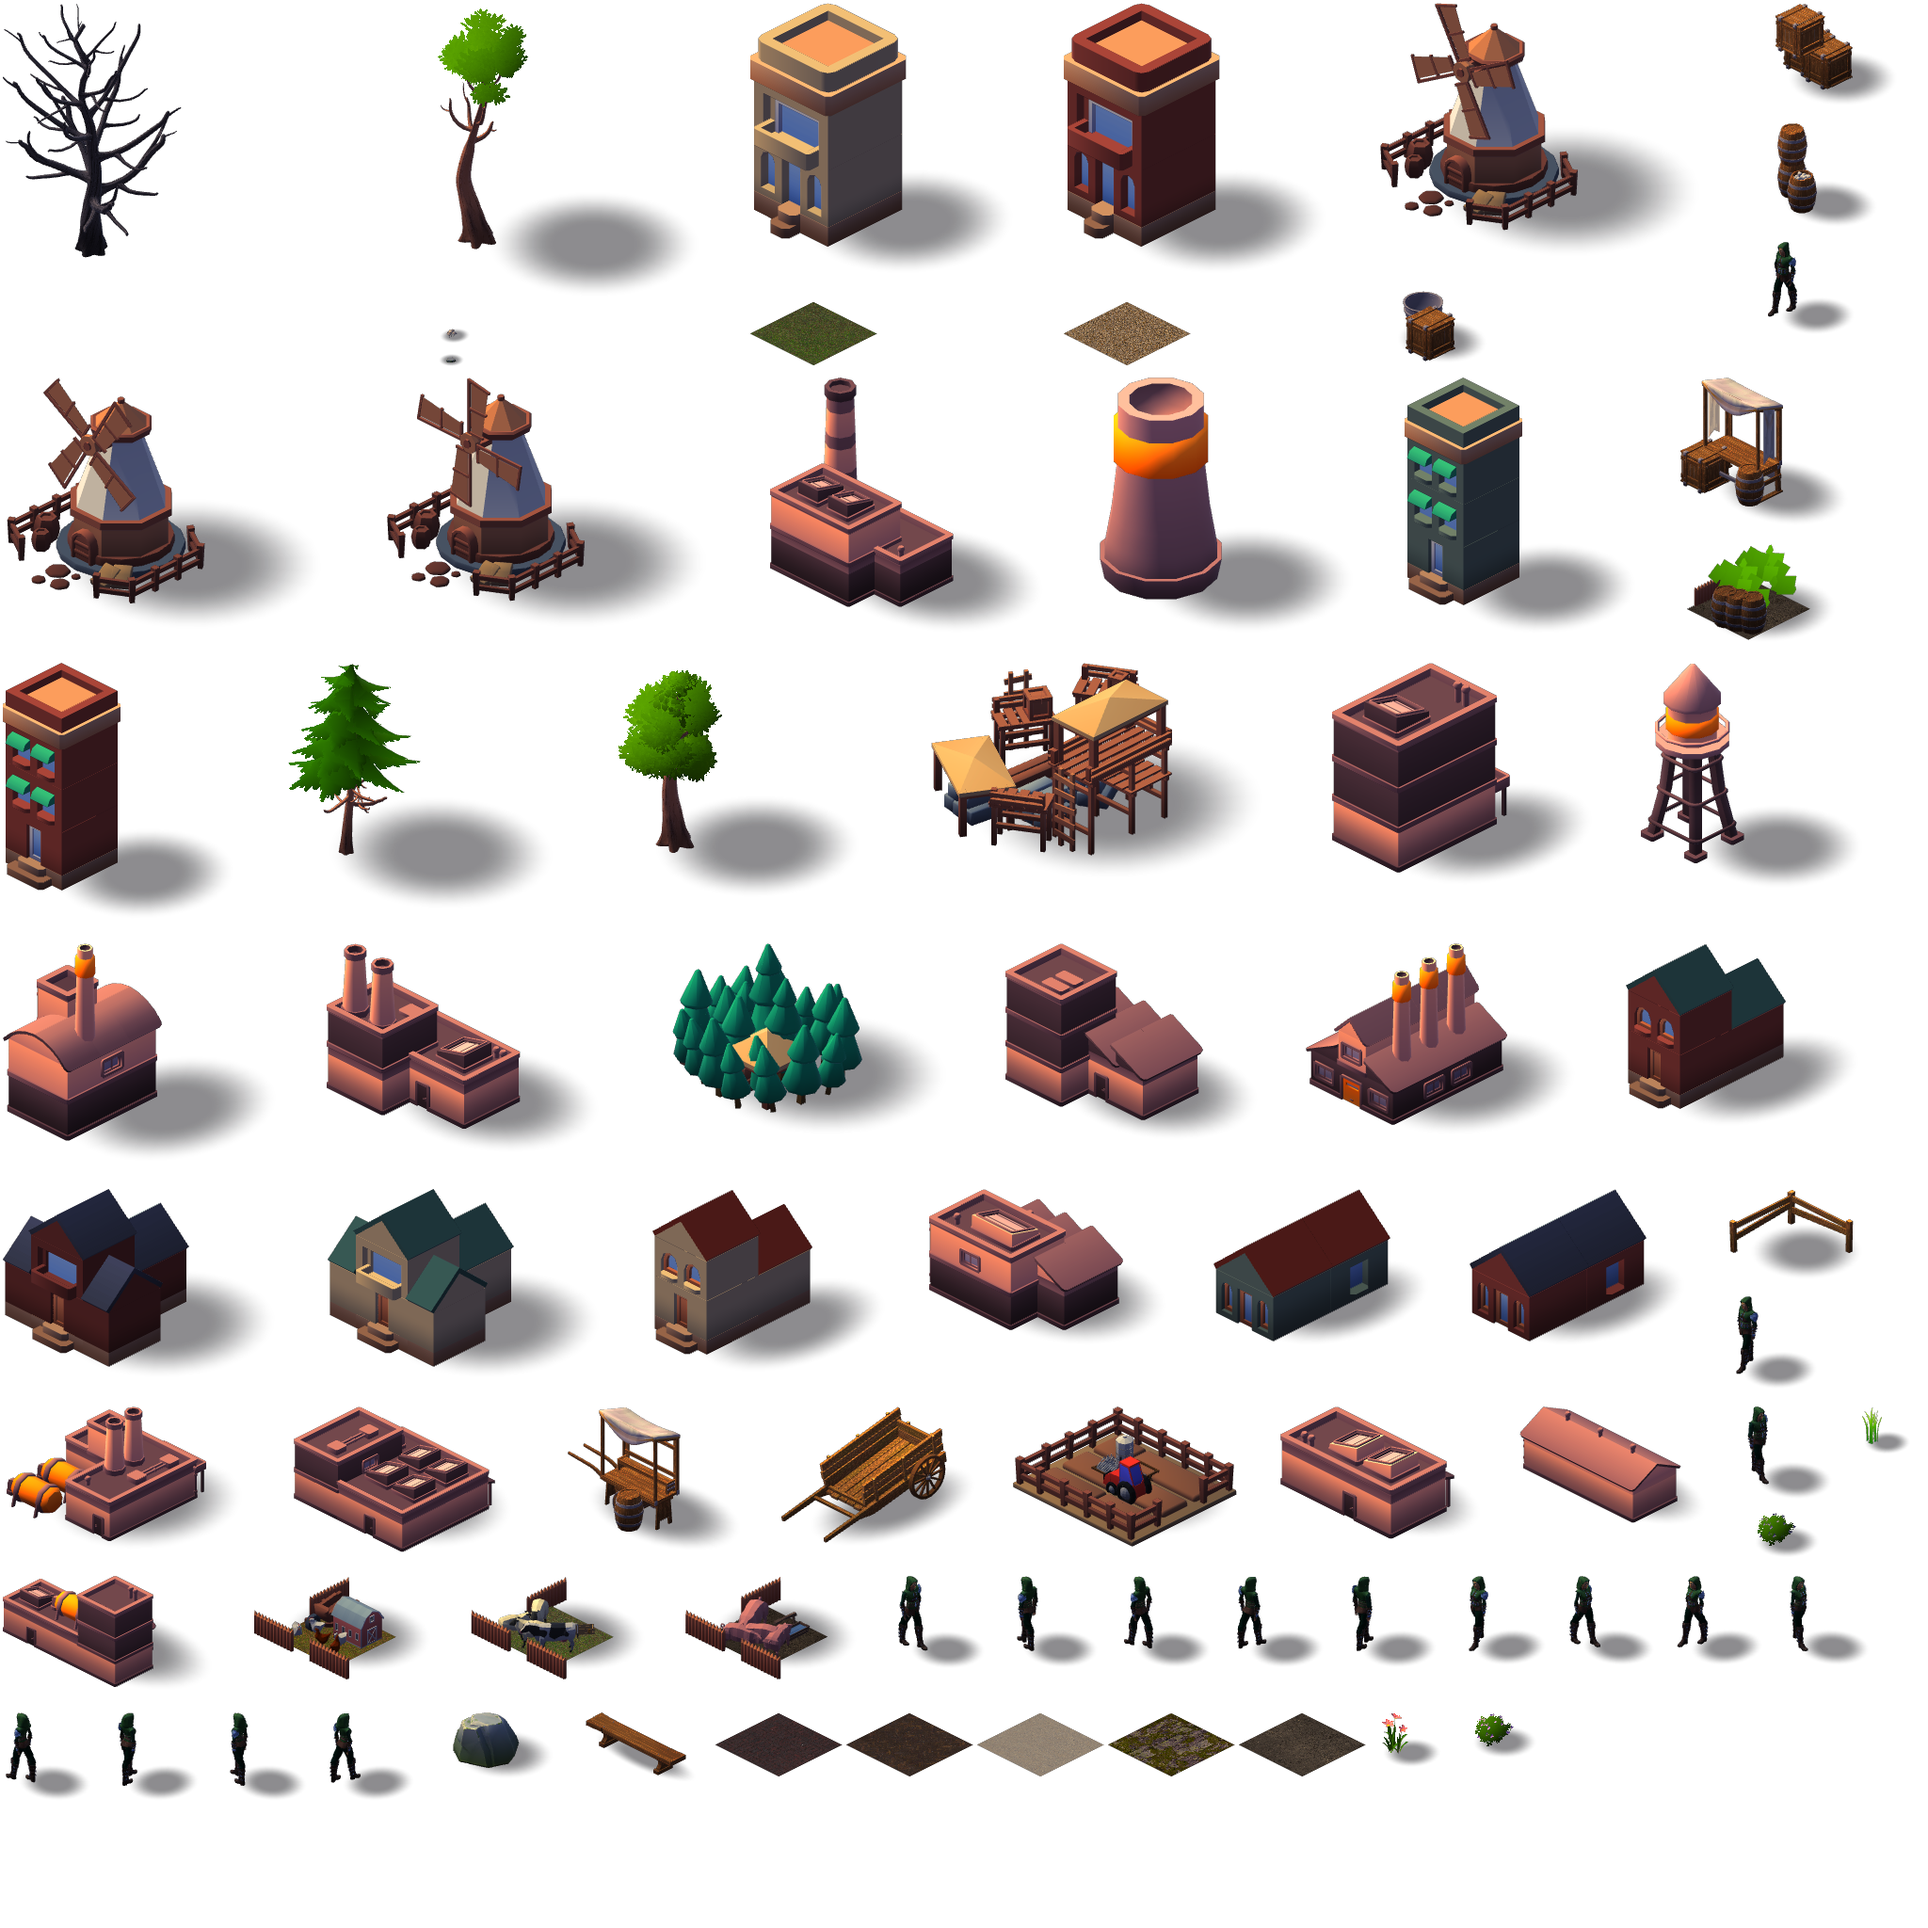
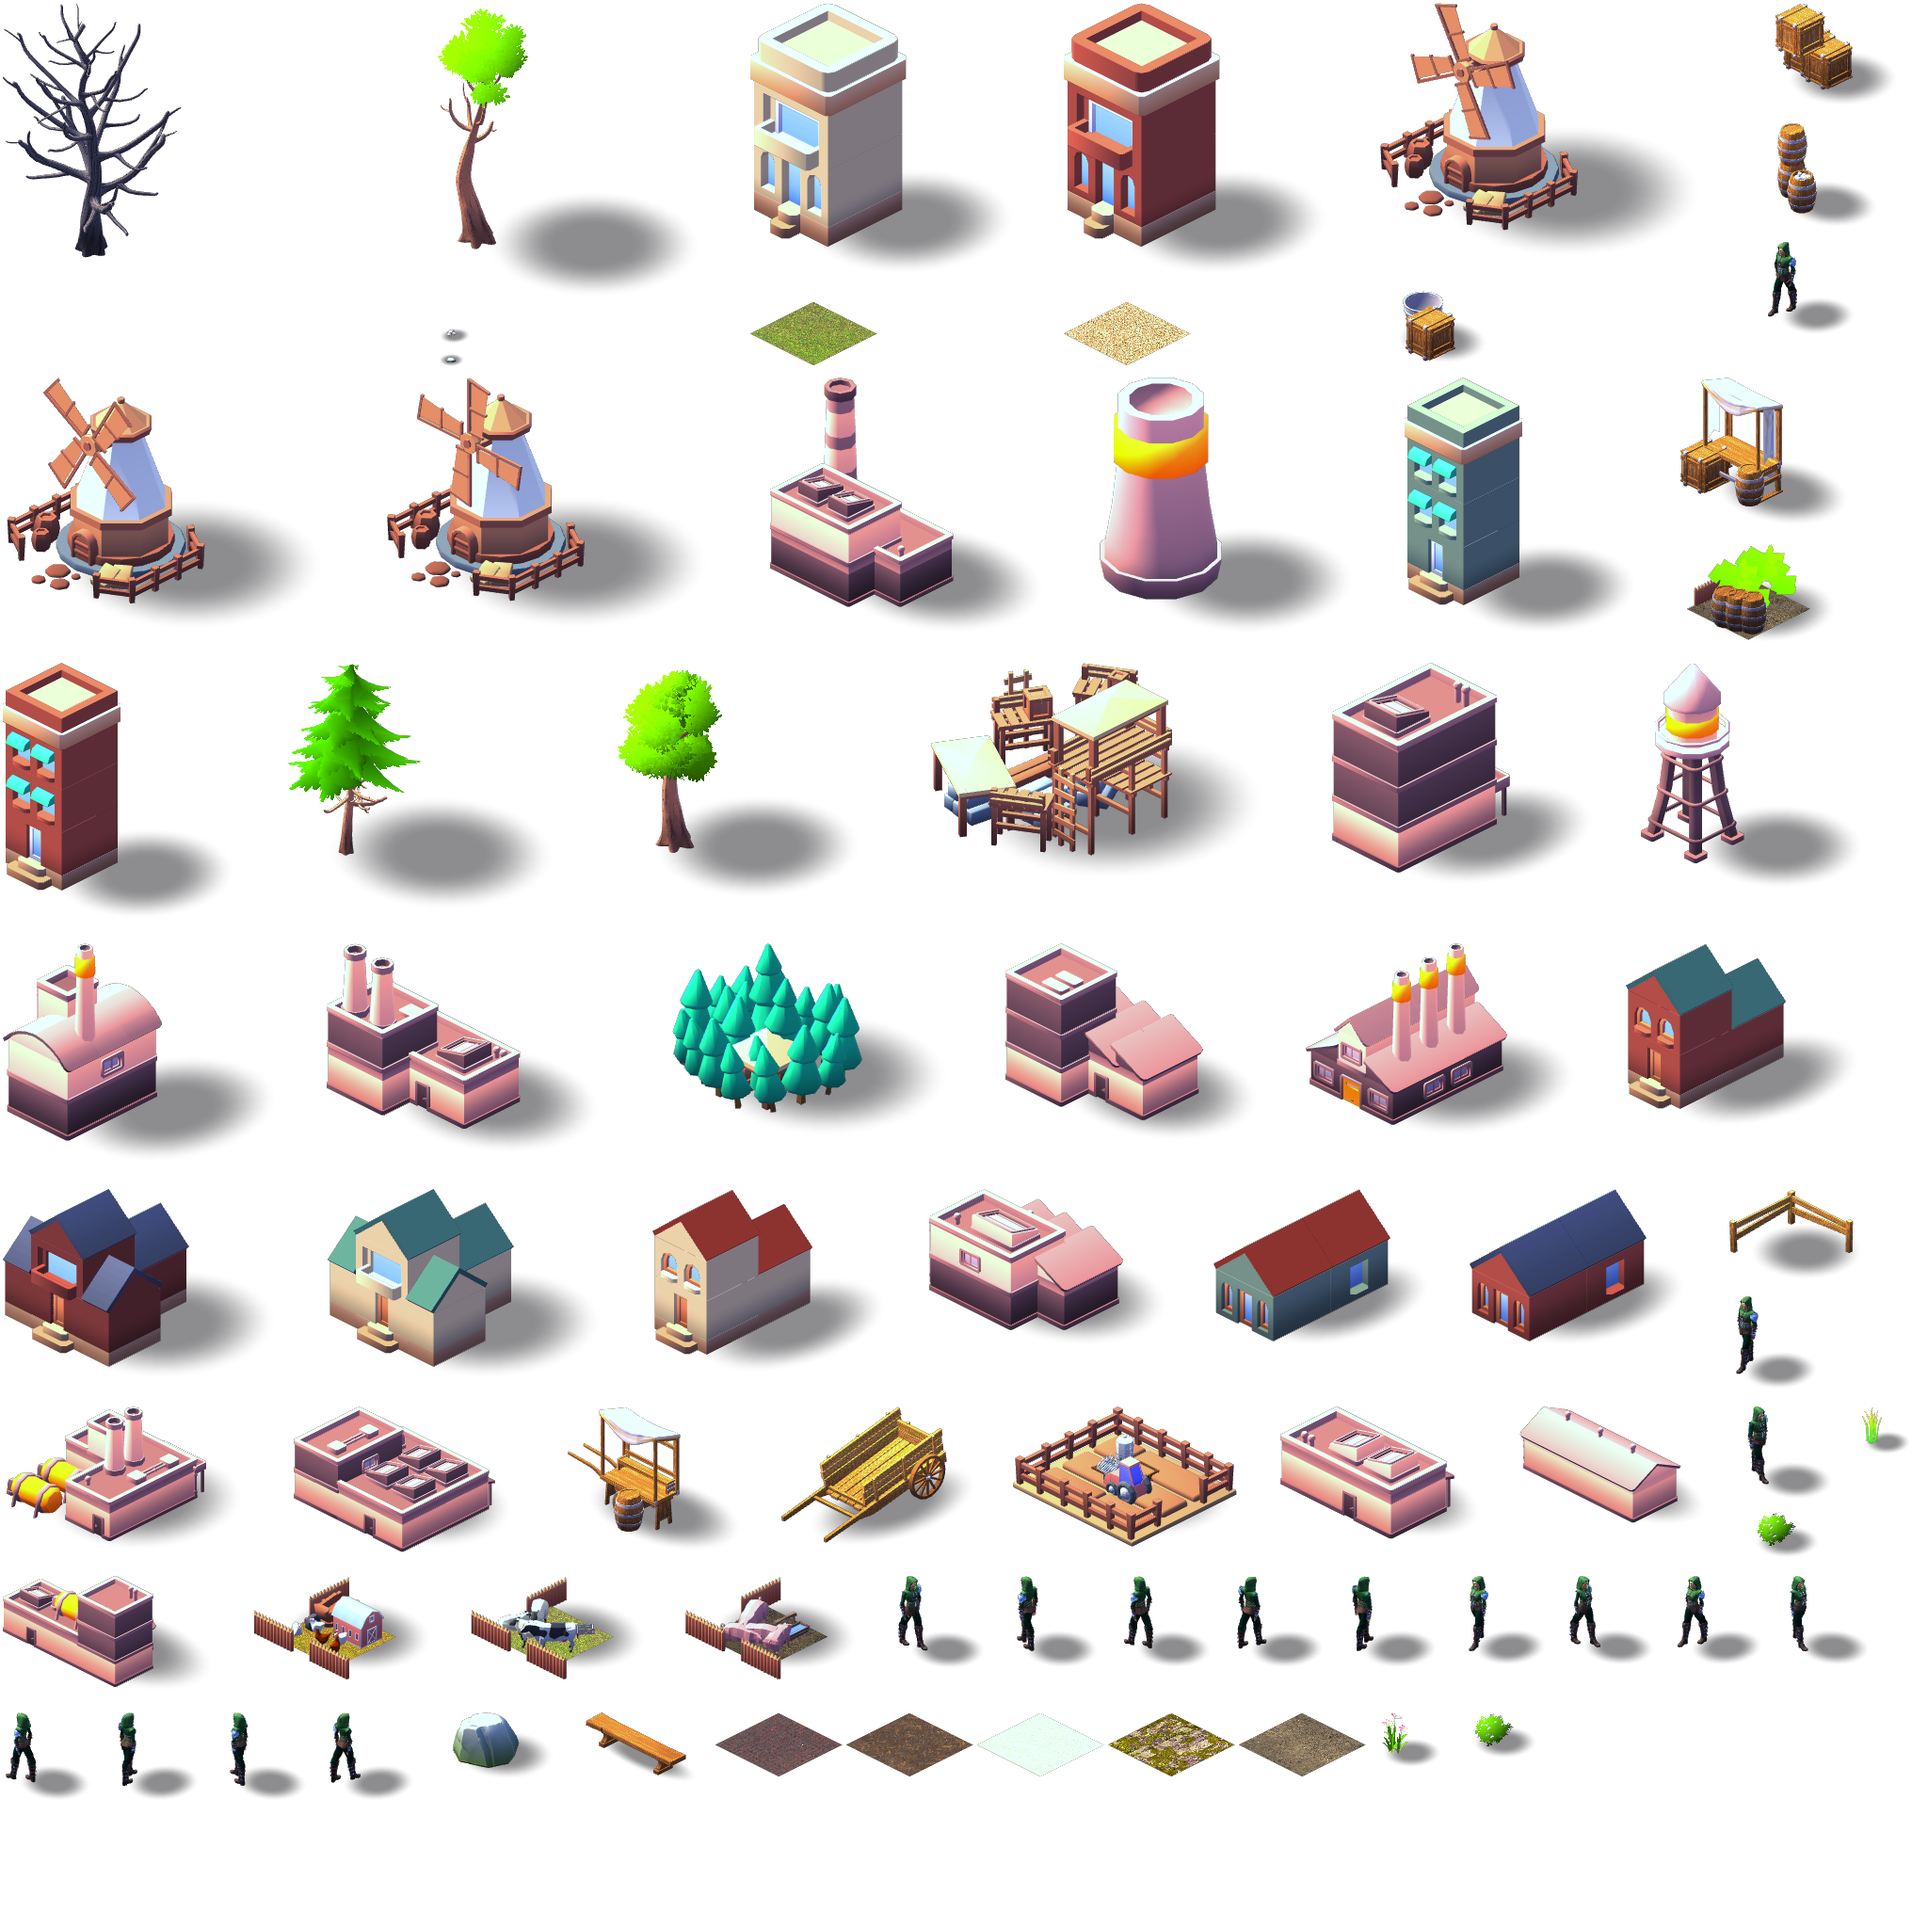
feat: den may nuong sang theo o 4C, nuong lai 5 me thanh pho
Do phoi x2,0 nhan deu den chinh va den nen, vung sang bot nga am,
can trang cuoi (0.92, 1.0, 1.08), bao hoa giu 1,30. Co dai do ra
sang 0,52 - am 0,28 (o 4C 0,52 - 0,26; truoc 0,28 - 0,19).
10 file json atlas y het truoc, chi anh doi mau.

Claude-Session: https://claude.ai/code/session_017Gcu1YoDULcfSJ6M5HPfDg

diff --git a/tools/lib/trang_nuong.js b/tools/lib/trang_nuong.js
@@ -120,12 +120,20 @@ void main() {
   // anh do, van ra vien den - dung benh cu.
   if (coAnh > 0.5 && t.a < 0.5) discard;
   vec3 c = vMau * mix(vec3(1.0), t.rgb, coAnh);
-  vec3 ra = c * (denChinh + denNen) * chan + vien * vec3(0.75, 0.85, 1.0);
+  // Do phoi x2,0 nhan DEU ca den chinh lan den nen: sang len ma giu nguyen ti le sang/toi,
+  // bong van dam. Chot 30/09 theo o 4C cua bang den (docs/ART_BIBLE.md muc 5): anh game
+  // do ra sang 0,52 - truoc day 0,28, toi hon ca 16 canh moc.
+  vec3 ra = c * (denChinh + denNen) * 2.0 * chan + vien * vec3(0.75, 0.85, 1.0);
   // Nang tong: vung sang nga am, vung toi nga lanh. Cung mot mau ma tach hai dau ra thi
-  // hinh khoi noi han len, khong can them da giac nao.
-  ra = mix(ra * vec3(0.92, 0.96, 1.10), ra * vec3(1.08, 1.02, 0.90), smoothstep(0.15, 0.75, dot(ra, vec3(0.299, 0.587, 0.114))));
+  // hinh khoi noi han len, khong can them da giac nao. Vung sang chi nga NHE: phoi x2 thi
+  // gan het canh roi vao vung sang, giu muc cu (1.08, 0.90) la ca thanh pho vang cam.
+  ra = mix(ra * vec3(0.92, 0.96, 1.10), ra * vec3(1.03, 1.00, 0.96), smoothstep(0.15, 0.75, dot(ra, vec3(0.299, 0.587, 0.114))));
   float xam = dot(ra, vec3(0.299, 0.587, 0.114));
-  gl_FragColor = vec4(clamp(mix(vec3(xam), ra, 1.30), 0.0, 1.0), 1.0);
+  // Can trang hoi lanh o cuoi: sang len thi do lech do - lam cung phong theo, do am ra 0,39
+  // thay vi 0,26 cua o 4C. Doi mau den chinh thi gan nhu khong keo duoc (thu 30/09: 0,39 ->
+  // 0,38) vi kenh do da chay sang o 15% diem anh. Ha bao hoa xuong 1,15 cung keo duoc nhung
+  // lam me trung_co_2 truot luat bao hoa >= 0,37 cua art bible (0,35) - nen giu 1,30.
+  gl_FragColor = vec4(clamp(mix(vec3(xam), ra, 1.30), 0.0, 1.0) * vec3(0.92, 1.0, 1.08), 1.0);
 }`;
 
 // Bong do: mot hinh elip mem tren mat dat, ve TRUOC vat. Khong dung hinh chieu that cua
